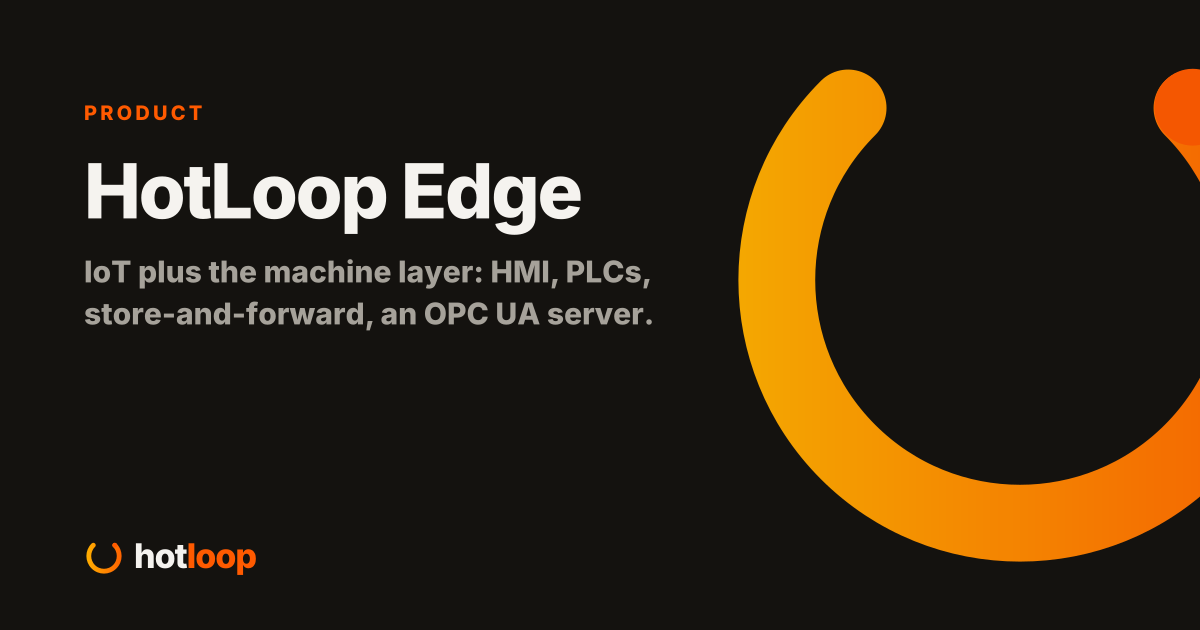
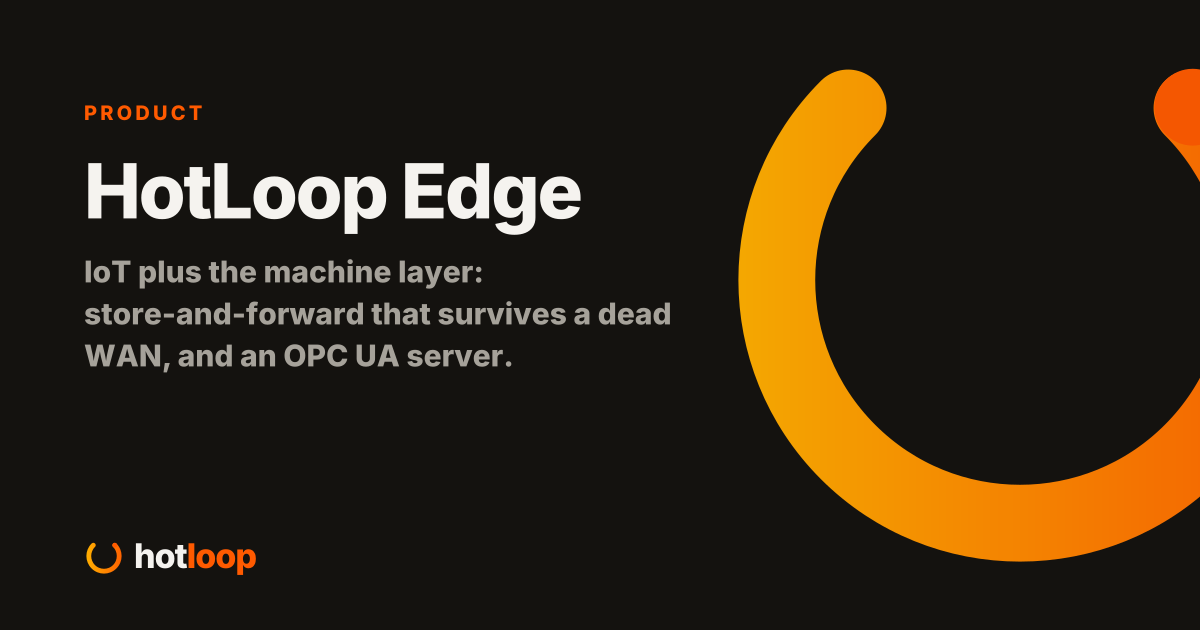
fix: the feature lists said things the products don't, and left out things they do
I audited every feature claim against the 4.18.10 tag and main, flow 2.2.0 and cascade 0.1.2. Eight drivers not seven, 27 MCP tools not 25, eleven trigger types, panel mode is in every product with a UI, CODESYS and Pi PLCs have no source behind them, the embedded broker has topic rules, Flow's benchmark table is the absolute one its README prints now, and Discord has only met a stand-in.

Changed region(s): [[0.0617, 0.5429, 0.4317, 0.6032], [0.4008, 0.3921, 0.555, 0.4524], [0.3083, 0.4825, 0.5858, 0.5127]]

diff --git a/src/lib/products.ts b/src/lib/products.ts
@@ -61,12 +61,12 @@ export const PRODUCTS: Product[] = [
     href: '/edge/',
     tagline: 'IoT plus the machine layer.',
     summary:
-      'Everything in IoT, plus what lives next to a machine: HMI screens, PLCs, CODESYS and Pi PLCs, store-and-forward upstream, and an OPC UA server.',
+      'Everything in IoT, plus what lives next to a machine: store-and-forward upstream over Sparkplug B that rides out a dead uplink, and an OPC UA server. Panel mode for the machine\'s screen comes with the dashboards every product has.',
     installable: true,
     image: 'ghcr.io/hotloop-io/hotloop-edge',
     chart: 'hotloop-edge',
     databases: 'SQLite, PostgreSQL or TimescaleDB',
-    adds: 'HMI, store-and-forward, OPC UA server',
+    adds: 'Store-and-forward, OPC UA server',
   },
   {
     id: 'gateway',
@@ -107,45 +107,44 @@ export const product = (id: ProductId) => PRODUCTS.find((p) => p.id === id)!;
 // What the IoT base holds. Edge and the Gateway carry all of it.
 export const IOT_FEATURES: Feature[] = [
   { name: 'Entities and the equipment tree', status: 'released', note: 'Every tag gets an entity with an id that never changes, on one ISA-95 tree. A motor is one entity built from the tags it really is, so rules and agents talk about the pump, not register 40001.' },
-  { name: 'Automations', status: 'released', note: 'Ten trigger types, entity state included, compiled when you save. A broken rule dies in the editor, not at 3am halfway through a batch.' },
+  { name: 'Automations', status: 'released', note: 'Eleven trigger types, entity state and the sun included, compiled when you save. A broken rule dies in the editor, not at 3am halfway through a batch.' },
   { name: 'The automation language', status: 'released', note: 'Condition, wait and stop steps inside a sequence, and forSec on a state trigger. "The pump has been on for five minutes" is one trigger, not a timer hack.' },
   { name: 'Helpers', status: 'released', note: 'The values the plant\'s people own, like today\'s batch target or which shift is on: toggles, numbers, selects, text, counters, timers and schedules. Kept across restarts, never clamped.' },
   { name: 'Logbook', status: 'released', note: 'State changes, writes, alarms, rule runs and config changes on one timeline, for the plant, one area or one entity. "What happened right before?" is one list, not five screens.' },
   { name: 'Scripts', status: 'released', note: 'Write the CIP cycle once, name it, run it from a rule, a screen, MCP or its own entity. A dry run goes through the real gate, so you see the refusal before anything moves.' },
   { name: 'Recipes', status: 'released', note: 'Grade A\'s setpoints off the laminated sheet and into the plant in one go: checked whole, refused whole, written in order and read back from the device.' },
   { name: 'Blueprints', status: 'released', note: 'Write a rule once with blanks and fill it in per pump. Each rule keeps the blueprint version it was made from, so one edit never quietly changes forty rules.' },
-  { name: 'Dashboards', status: 'released', note: 'A card builder with drag and drop: gauges, numbers, trends, entity lists, write buttons, script and recipe buttons, alarm lists, cameras and a floor plan. One layout folds from twelve columns on a panel PC to one on a phone, so nobody ever builds the phone version. A card commands nothing itself, so a button still meets the write gate.' },
+  { name: 'Dashboards', status: 'released', note: 'A card builder with drag and drop: gauges, numbers, trends, entity lists, write buttons, script and recipe buttons, alarm lists, text, cameras and a floor plan. Give a dashboard to the roles that need it, or bind it to one physical screen. One layout folds from twelve columns on a panel PC to one on a phone, so nobody ever builds the phone version. A card commands nothing itself, so a button still meets the write gate.' },
   { name: 'ISA-18.2 alarms', status: 'released', note: 'rtn-unack included, so a trip that fixed itself is still there at shift change. Shelving ends, and unshelve brings the alarm back in the state it\'s really in.' },
-  { name: 'Notifications', status: 'released', note: 'ntfy, Gotify, Discord, webhooks and email. Press Acknowledge on your phone and the alarm is acknowledged, signed and single use.' },
+  { name: 'Notifications', status: 'released', note: 'ntfy, Gotify, Discord (a webhook, or a bot), webhooks and email. Press Acknowledge on an ntfy push or in the Discord bot and the alarm is acknowledged, signed and single use. Gotify and the Discord webhook are one way. Discord has only met a stand-in, not the real thing.' },
   { name: 'MCP', status: 'released', note: 'An agent can read the whole plant and touch only what you armed, through the write gate, and never without a stated reason, which goes in the system log next to the write.' },
-  { name: 'MQTT and an embedded broker', status: 'released', note: 'Plain topics with JSON paths, Sparkplug B, and a broker in the same process, so one box can be the whole install.' },
+  { name: 'MQTT and an embedded broker', status: 'released', note: 'Plain topics with JSON paths, Sparkplug B, and an optional broker in the same process, so one box can be the whole install.' },
+  { name: 'The sun', status: 'released', note: 'Sunrise, sunset, dawn, dusk and the sun\'s height and bearing, worked out on the box from the site\'s latitude and longitude, plus a sun trigger with an offset. A site whose uplink died three weeks ago still turns the yard lights on at dusk.' },
   { name: 'MQTT discovery', status: 'released', note: 'ESPHome, Zigbee2MQTT, Tasmota and Shelly Gen2 and later show up on their own, reading, on the embedded broker or any other. Nothing is armed until a person accepts the device and arms each point, so a device announcing itself never earns the right to flip a relay. Proven against recordings of real devices, not yet a bench of them.' },
   { name: 'Network discovery', status: 'released', note: 'mDNS and SSDP are overheard, and DHCP is heard if the deployment allows it. Finds land next to the MQTT devices with what they are and how HotLoop could talk to them. Probing stays off until a network is named, because a port sweep has knocked over PLCs. Nothing is added by itself.' },
-  { name: 'Broker logins with rules', status: 'released', note: 'A twelve dollar plug\'s login can\'t publish to the boiler\'s command topic. Logins made in HotLoop carry publish and subscribe rules from a profile, checked on every publish, subscription and outgoing message.' },
+  { name: 'Broker logins with rules', status: 'released', note: 'A twelve dollar plug\'s login can\'t publish to the boiler\'s command topic. Logins made in HotLoop carry publish and subscribe rules from a profile, checked on every publish, subscription and outgoing message. Logins from HOTLOOP_BROKER_USERS are unrestricted, as before.' },
   { name: 'Historian targets', status: 'released', note: 'Every reading also goes to the plant\'s own database: PostgreSQL and TimescaleDB, SQL Server, InfluxDB 2 and 3, MySQL and MariaDB. Same readings, same deadband, same quality. Polling never waits for a target, and one that falls behind catches up from HotLoop\'s own history.' },
   { name: 'SQLite or PostgreSQL, your pick', status: 'released', note: 'The database is a setting. A Pi can run any product on a SQLite file with no second container and no 300 MB database image on the SD card. Moving between databases is a backup and a restore.' },
-  { name: 'Updates that roll themselves back', status: 'released', note: 'Boxes follow the stable tag and update themselves, and an update that can\'t pass its healthcheck is rolled back instead of reported as a success. That is only safe because migrations only add.' },
-  { name: 'Every protocol driver', status: 'released', note: 'OPC UA, Modbus, MQTT and Sparkplug B, EtherNet/IP, S7comm, MTConnect and HTTP. Protocols don\'t split the products, so nobody runs the Gateway just to reach one PLC.' },
-  { name: 'UniFi, read-only', status: 'released', note: 'Devices, ports, PoE, WAN failover and clients as tags, and a quiet PLC tells you which switch port it\'s on. WAN health comes from the console\'s own checks, so a backup link that\'s been dead for two days reads dead. Nothing writes to a console yet.' },
-  { name: 'UniFi screens and events', status: 'released', note: 'An overview with the WAN strip, a topology map laid out the same way every time, switch faceplates, clients, networks and WiFi, plus the console\'s event stream so a switch dropping off lands in the logbook in seconds. Proven against a lab controller, not yet looked at on real gear.' },
+  { name: 'Updates that roll themselves back', status: 'released', note: 'Quadlet boxes follow the stable tag and update themselves, and an update that can\'t pass its healthcheck is rolled back instead of reported as a success. On Helm you run the upgrade. Rolling back is only safe because migrations only add.' },
+  { name: 'Every protocol driver', status: 'released', note: 'OPC UA, Modbus, MQTT and Sparkplug B, EtherNet/IP, S7comm, MTConnect, HTTP and UniFi. Protocols don\'t split the products, so nobody runs the Gateway just to reach one PLC.' },
+  { name: 'UniFi, read-only', status: 'released', note: 'Devices, ports, PoE, WAN failover and clients as tags, and a quiet PLC tells you which switch port it\'s on. WAN health comes from the console\'s own checks, so a backup link that\'s been dead for two days reads dead. Read on two real consoles, though a PoE draw above zero has not been seen yet. Nothing writes to a console yet.' },
+  { name: 'UniFi screens and events', status: 'released', note: 'An overview with the WAN strip, a topology map that zooms and pinches and is laid out the same way every time, switch faceplates with port traffic traces, clients, networks and WiFi, one button that makes the usual alarms, and the console\'s event stream so a switch dropping off lands in the logbook in seconds. An agent can ask over MCP for the topology and the latest events. Proven against a lab controller, with touch emulated, and not yet looked at on real gear.' },
   { name: 'UniFi writes', status: 'planned', note: 'Writes through the gate, starting with the locate LED. Then Protect, Access and PDUs, each only after it has run on real gear. Nothing writes to a console today.' },
   { name: 'Backups and restore', status: 'released', note: 'Pure Go over the database connection, in IoT, Edge and the Gateway. It\'s also how you move between them, so it has to work every time.' },
 ];
 
 // What Edge adds on top of IoT.
 export const EDGE_FEATURES: Feature[] = [
-  { name: 'HMI screens', status: 'released', note: 'A dashboard bound to a physical screen opens full bleed on the machine\'s panel with no header, no tabs and bigger touch targets. That is all of it so far: the ISA-101 symbol library, the motor and valve faceplates and PIN sign-in for shared panels are not built.' },
-  { name: 'PLCs', status: 'released', note: 'The native drivers read and write PLCs directly. S7comm and EtherNet/IP are decode tested and have never touched a physical PLC, and the integrations page says so.' },
-  { name: 'CODESYS', status: 'unverified', note: 'A CODESYS runtime is an OPC UA server or a Modbus TCP slave, and HotLoop speaks both. It has not been run against a CODESYS runtime yet.' },
-  { name: 'Pi PLCs', status: 'unverified', note: 'Raspberry Pi based PLCs talk Modbus TCP, and most can run CODESYS. Reached that way today. Not yet run against one on the bench.' },
-  { name: 'Store-and-forward', status: 'released', note: 'Publishes upstream as a Sparkplug B edge node. When the link drops it buffers to disk and replays in order, so the historian upstream has no hole in it.' },
+  { name: 'Store-and-forward', status: 'released', note: 'Publishes upstream as a Sparkplug B edge node. When the link drops it buffers and replays in order, flagged historical, so the historian upstream has no hole in it. Off until you switch edge publishing on.' },
   { name: 'Runs with the WAN dead', status: 'released', note: 'A real Edge was booted with its uplink pointed at a link that eats every packet, and the screen, a write, a script, a recipe, an automation and an alarm all worked. A box rebooted mid-outage used to crash-loop. The queue is memory first and disk only when the broker stops confirming, replays oldest first, and is capped at 64 MiB by default.' },
-  { name: 'OPC UA server', status: 'released', note: 'Read-only and secured, and Ignition 8.3.9 reads it end to end. The SCADA you already own sees every tag without a new driver.' },
+  { name: 'OPC UA server', status: 'released', note: 'Read-only and secured, and Ignition 8.3.9 reads it end to end. The SCADA you already own sees every tag without a new driver. Off until you switch it on.' },
+  { name: 'Panel mode', status: 'released', note: 'A dashboard bound to a physical screen opens full bleed at /?screen=name, with no header, no tabs and bigger touch targets, and it works against the box with the uplink down. That comes with the dashboards, so IoT and the Gateway have it too. It is not something only Edge has.' },
+  { name: 'HMI symbols, faceplates and PIN sign-in', status: 'planned', note: 'The ISA-101 symbol library, the motor and valve faceplates and PIN sign-in for shared panels. None of it is built.' },
 ];
 
 // What the Gateway adds on top of Edge.
 export const GATEWAY_FEATURES: Feature[] = [
-  { name: 'Fleet', status: 'released', note: 'Knows every Edge Relay from its Sparkplug births and deaths, and sends rebirth, restart and a new device file without anybody driving out to the box. API only, no screen yet. A pushed file lands from 4.17.0 on; 4.16.0 relays dropped it.' },
+  { name: 'Fleet', status: 'released', note: 'Knows every Edge Relay you register from its Sparkplug births and deaths, and sends rebirth, restart and a new device file without anybody driving out to the box. Off until you switch it on, and API only, no screen yet. A pushed file lands from 4.17.0 on; 4.16.0 relays dropped it.' },
   { name: 'Multi-site', status: 'released', note: 'One Gateway asks the others what it would answer itself. A site that doesn\'t answer shows as unreachable, never as zero alarms.' },
   { name: 'Scheduled reports', status: 'released', note: 'Historian numbers on a schedule, as CSV or HTML, stored and emailed. Only good readings count, and every row says how many it threw out.' },
 ];
